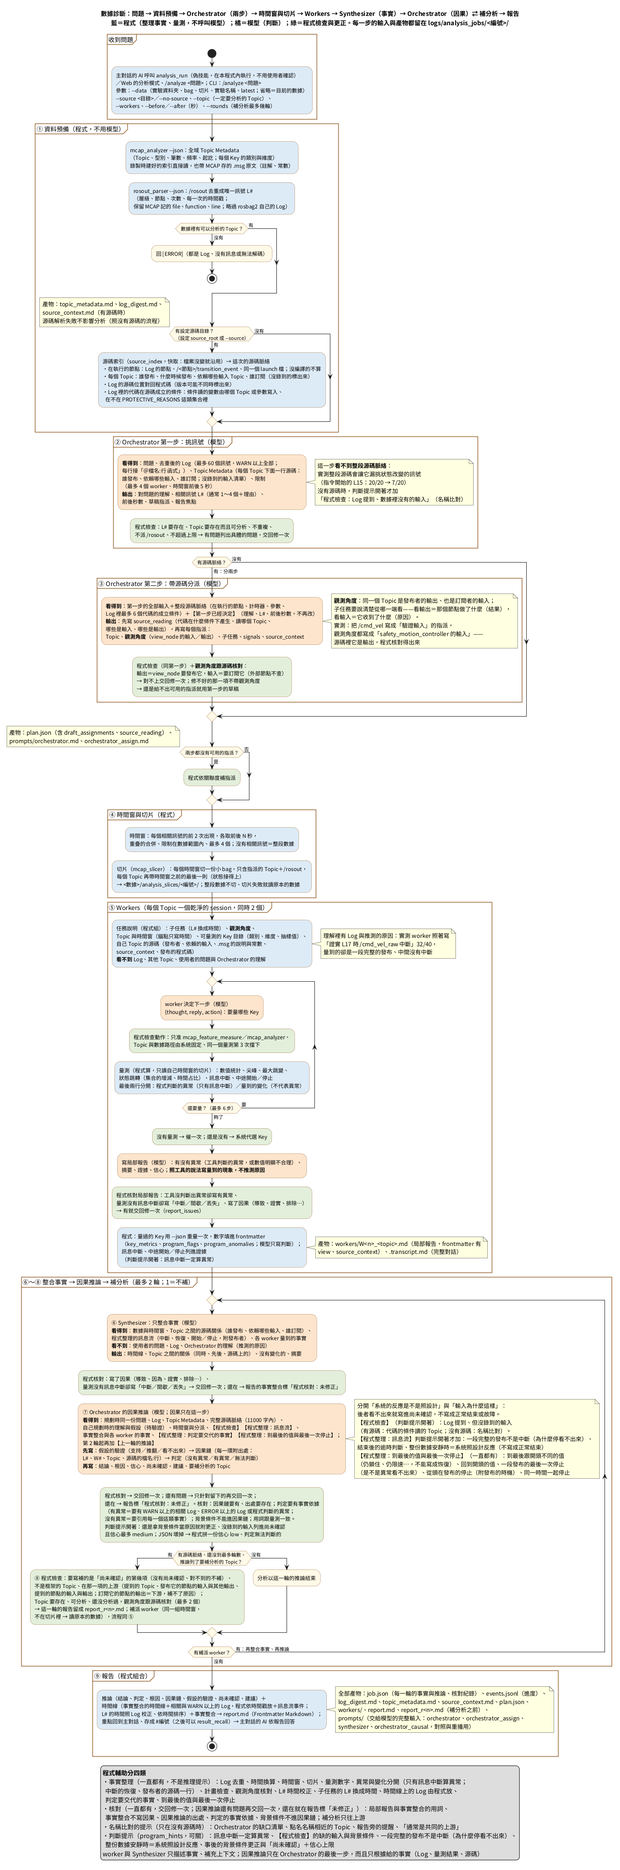
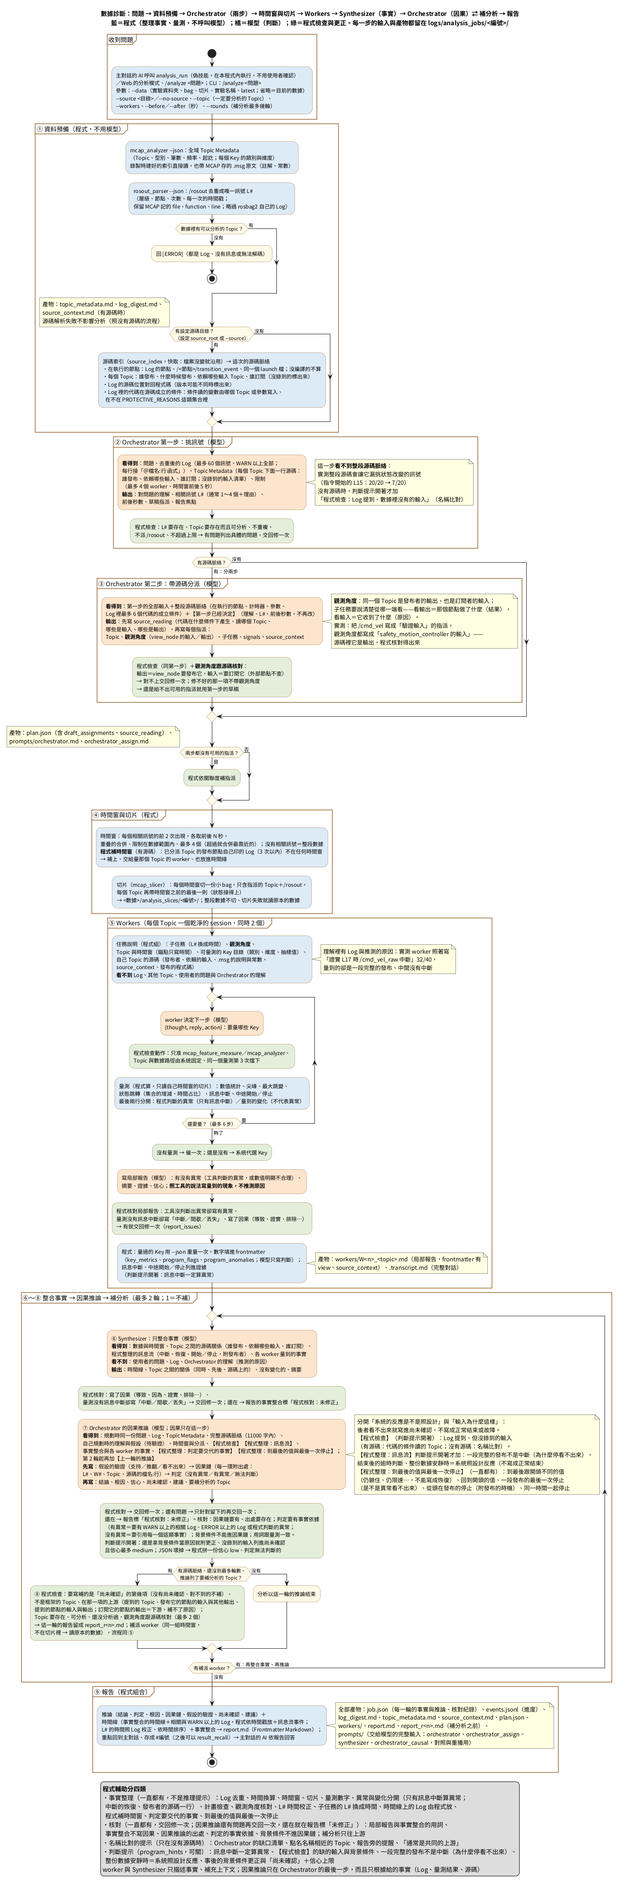
feat: Enhance turn guard logic and improve analysis flow
- Updated the regex in `turn_guard.py` to better identify claims made by the AI, ensuring it only recognizes claims that start a sentence or follow specific phrases.
- Modified documentation and self-test cases to reflect changes in claim recognition, particularly in how the AI describes system states versus making claims of actions taken.
- Improved the handling of time windows in analysis jobs, allowing for better coverage of relevant logs and signals.
- Adjusted the analysis regression logic to account for changes in how claims are processed and validated.
- Enhanced the web app's analysis flow to correctly parse command-line arguments, ensuring that questions are properly formatted and processed without misinterpretation.
- Updated self-test cases to validate the new behavior and ensure robustness in the analysis and claim handling processes.

Changed region(s): [[0.0, 0.0, 0.9201, 0.9998]]

diff --git a/evals/analysis_selftest.py b/evals/analysis_selftest.py
@@ -569,6 +569,19 @@ def main():
             assert "⚠" in ev[-1]["text"], "worker 上限 1～8"
             stats = flows.build_stats()
             assert stats["analysis"]["status"] == "done" and "analysis_mode" in stats
+            # 「/analyze --data X 問題」：選項照原樣交給 analysis_run（以前整段加引號當成問題，數據靜靜地用了目前的）
+            seen = []
+            real = agent.run_tool
+            agent.run_tool = lambda parsed, approved=False: (seen.append(parsed["action"]["args"]), "[ERROR] 測試：不執行")[1]
+            try:
+                flows.run_analysis_turn("--data exp_other LiDAR 出錯之後為什麼沒有恢復", [], data=DATA)
+                flows.run_analysis_turn("--topic /cmd_vel 為什麼歸零", [], data=DATA)
+                flows.run_analysis_turn("安全閘為什麼停下來", [], data=DATA)
+            finally:
+                agent.run_tool = real
+            assert seen[0] == "--data exp_other LiDAR 出錯之後為什麼沒有恢復", seen
+            assert seen[1].startswith("--data ") and seen[1].endswith(" --topic /cmd_vel 為什麼歸零"), seen
+            assert seen[2].endswith('"安全閘為什麼停下來"') or seen[2].endswith("安全閘為什麼停下來"), seen
 
         def t_mark_interrupted():
             d = os.path.join(agent.analysis_jobs_dir(), "20200101_000000")
@@ -904,6 +917,21 @@ def main():
             fake, d, job = run(plans=[GOOD_PLAN], assigns=[only], facts=[FACTS, FACTS], causal=[up, CAUSAL])
             assert [a["topic"] for a in job["reviews"][0]["followups"]] == ["/diagnostics_agg"], job["reviews"]
             assert "只能往上游補" in fake.seen["causal"][0][1]["content"]
+            # 補時間窗：規劃只挑 L30（+15.54s），已分派的 /cmd_vel 的發布者 safety_motion_controller 自己印的 L27～L29（+0.75s～+1.22s）、
+            # /system/safety_command 的發布者 system_health_monitor 的 L19、L20 不在時間窗 → 程式補上，交給量那個 Topic 的 worker
+            plan_l30 = dict(GOOD_PLAN, related_signals=[{"id": "L30", "why": "恢復 NORMAL"}])
+            fake, d, job = run(plans=[plan_l30], assigns=[good], causal=[CAUSAL])
+            cov = [c["id"] for c in job["plan"]["coverage"]]
+            assert cov == ["L19", "L20", "L27", "L28", "L29"], job["plan"].get("coverage")
+            t0 = round(float(job["time_range"][0]) * 1e9)
+            assert [r["id"] for r in job["plan"]["related"]] == ["L30"] and len(job["windows"]) == 2, job["windows"]
+            assert abs(job["windows"][0]["start_ns"] - t0) < 2e6 and job["windows"][0]["signals"][:2] == ["L19", "L20"], job["windows"]
+            sig = {a["topic"]: a["signals"] for a in job["plan"]["assignments"]}
+            assert {"L27", "L28", "L29"} <= set(sig["/cmd_vel"]) and "L19" not in sig["/cmd_vel"] and {"L19", "L20"} <= set(sig["/system/safety_command"]), sig
+            first = fake.seen["causal"][0][1]["content"]
+            assert "程式補的時間窗（已分派 Topic 的發布節點自己印的 Log，你規劃時沒有挑）" in first and "- L28 +0.75s：WARN safety_motion_controller" in first, first[-3000:]
+            md = open(os.path.join(d, "report.md"), encoding="utf-8").read()
+            assert "coverage_signals" in md and any(r["source"] == "L27" for r in job["report"]["timeline"]), "補的訊號也進時間線"
             # 補分析沒寫它補哪一項尚未確認、或沒有尚未確認：不補
             nofill = dict(CAUSAL, unknowns=[], followups=[dict(more["followups"][0], unknown=1)])
             fake, d, job = run(plans=[GOOD_PLAN], assigns=[good], causal=[nofill])
@@ -942,6 +970,7 @@ def main():
             from agent_core.analysis_job import _interrupt_words
             assert not _interrupt_words("停止發布的原因（例如上游節點關閉或通訊中斷）無法得知") and not _interrupt_words("沒有任何狀態跳轉、數值尖峰或訊息中斷")
             assert _interrupt_words("根因為 /cmd_vel_raw 指令源頭中斷") == ["中斷"]
+            assert not _interrupt_words("為什麼兩個 Topic 同時停止發布（是發布節點當掉、通訊中斷，還是收到特定指令停止）"), "列出可能的原因是假設"
             assert job["causal_checks"][0]["left"] == [] and job["report"]["root_cause"].startswith(CAUSAL["root_cause"]), job["causal_checks"]
             assert os.path.exists(os.path.join(job_dir, "prompts", "orchestrator_causal_2.md"))
             assert job["report"]["unresolved"] == [] and "程式核對：未修正" not in open(os.path.join(job_dir, "report.md"), encoding="utf-8").read()
@@ -994,6 +1023,12 @@ def main():
             assert "- W4 /cmd：從數據開頭就在發布，+15.00s 停止之後沒有恢復" in out and "同一時間（+15.00s）一起停止：/cmd、/agg" in out, out
             assert "某一項錯誤解除，不代表其他狀態也恢復" in out
             assert _end_states(dict(job, workers=[])) == ""
+            # 清單的值（被截斷、沒有右括號的到句尾）先拿掉再看背景條件；用詞核對引用的句子以出問題的字為中心
+            from agent_core.analysis_job import _unlisted, _excerpt
+            assert _unlisted("stop_reasons 從 `[NO_CMD_VEL_RAW]` 變更為 `[NO_CMD_VEL_RAW, SAFETY_COMMAND___`。另一句") == "stop_reasons 從 `` 變更為 `。另一句"
+            long = "為什麼 /diagnostics_agg 與 /system/safety_command 會在 +15.03s 同時中斷（發布它們的節點的狀態沒有錄到）"
+            ex = _excerpt(long, "中斷")
+            assert "中斷" in ex and len(ex) <= 62 and ex.startswith("…"), ex
 
         def t_causal_checks():
             # 因果推論的程式核對：因果鏈要有、出處要存在；判定要有事實依據（「有異常」要有異常的事實、「沒有異常」要引用每一個異常的事實）；

diff --git a/evals/main_selftest.py b/evals/main_selftest.py
@@ -137,6 +137,12 @@ def main():
                 fake, tools, system = turn("nav2 怎麼了", [say(reply)])
                 assert fake.calls == 1, (reply, fake.calls)
 
+        def t_claim_describes_state():
+            # 描述數據或系統的狀態（前面有主詞）不是宣稱做了：數據診斷的追問常寫「指令已停止發布」「系統已完成初始化」
+            reply = "根據報告，/cmd_vel_raw 在 +34.25s 已停止發布，安全閘到最後仍是 LIMITED；馬達的警告解除之前，系統已完成的限速不會自己解除。"
+            fake, tools, system = turn("那要怎麼讓安全閘恢復？", [say(reply)])
+            assert fake.calls == 1 and not any("沒有執行任何工具" in s for s in system), (fake.calls, system)
+
         def t_claim_after_tool_ok():
             fake, tools, system = turn("看一下 AGENT.md 的開頭", [step("scripts/cat_cmd.py", "AGENT.md"), say("已經讀完了，重點如下…")])
             assert fake.calls == 2 and not any("沒有執行任何工具" in s for s in system), (fake.calls, system)
@@ -248,6 +254,7 @@ def main():
                          ("卡住偵測：每個新回合重新計數", t_reset_each_turn),
                          ("沒有執行卻宣稱做完：提醒一次", t_claim),
                          ("沒有執行卻宣稱做完：每回合最多提醒一次", t_claim_only_once),
+                         ("描述數據或系統的狀態（前面有主詞的「已停止」「已完成」）不是宣稱做了", t_claim_describes_state),
                          ("條件句、疑問句、否定句不提醒", t_hedge_no_nudge),
                          ("這一回合真的執行過工具：不提醒", t_claim_after_tool_ok),
                          ("路徑找不到時列出相近的路徑（view_file／list_dir／change_dir）", t_path_suggestions),

diff --git a/agent_core/turn_guard.py b/agent_core/turn_guard.py
@@ -20,8 +20,10 @@ REPEAT_HINT_AT = 2
 # v4.1：第 2 次提醒、第 3 次加強提醒（要它換技能或參數）、第 4 次才停——E6 穩健性實驗裡「第 3 次就停」切斷了模型自己
 # 換做法的機會；不連續、但同樣的錯誤也提醒（以前沒提醒就直接停）。評測的對照組用 AGENT_TURN_GUARD_RULE=v4 換回舊規則。
 REPEAT_STOP_AT = int(os.environ.get("AGENT_REPEAT_STOP_AT", "4"))
+# 只認子句開頭（回覆開頭、標點之後）或「我／我們」後面的「已經…」：前面有主詞的「指令已停止發布」「系統已完成初始化」
+# 是在描述數據或系統的狀態，不是 AI 說自己做了（實測：回答數據診斷報告的追問被當成宣稱已停止，模型改口道歉、沒回答問題）
 _CLAIM_RE = re.compile(
-    r"(已經?|剛剛?)(?:幫你|為你|替你|順利|成功)?(?:地)?"
+    r"(?:^|(?<=[，。；！!、：:「（(\n])|(?<=我)|(?<=我們))(已經?|剛剛?)(?:幫你|為你|替你|順利|成功)?(?:地)?"
     r"(執行|完成|重新啟動|重啟|啟動|停止|關閉|建立|新增|刪除|移除|修改|更新|切換|設定|安裝|寫入|儲存|送出|發布|部署|下載|上傳|複製|搬移|清除|派送|派工)")
 _HEDGE_RE = re.compile(r"(沒有|尚未|還沒|未能|無法|不能|失敗|如果|若是|假如|要不要|是否|可以幫|需要我|請問|嗎[？?]|\?|？)")
 

diff --git a/web_app/flows.py b/web_app/flows.py
@@ -372,8 +372,15 @@ def run_analysis_turn(question, events, data=None):
     進主對話（auto 直接加入、manual／hybrid 等你決定），之後主模型依報告回答、可以接著追問。回傳是否在等使用者決策。"""
     from agent_core.protocol import quote_cli_arg
     import json
+    import re
     data = data or agent.analysis_data or "latest"
-    args = f"--data {quote_cli_arg(data)}" + (f" {quote_cli_arg(question)}" if question else "")
+    if question and re.search(r"(?:^|\s)--(?:data|dir|topic|source|no-source|workers|before|after|rounds)\b", question):
+        # 「/analyze --data exp_x 問題」：選項照原樣交給 analysis_run（它會解析，剩下的字是問題）。以前整段加引號當成問題，
+        # 選項沒被認出來、數據靜靜地用了目前的（latest）——實測問 LiDAR 的數據，分析的卻是最後錄的另一份
+        has_data = re.search(r"(?:^|\s)--(?:data|dir)\b", question)
+        args = ("" if has_data else f"--data {quote_cli_arg(data)} ") + question
+    else:
+        args = f"--data {quote_cli_arg(data)}" + (f" {quote_cli_arg(question)}" if question else "")
     action = {"command": "scripts/analysis_run_cmd.py", "args": args}
     reply = "交給數據診斷（Orchestrator → Workers → Synthesizer）。"
     agent.messages.append({"role": "assistant", "content": json.dumps(

diff --git a/evals/analysis_regression.py b/evals/analysis_regression.py
@@ -94,7 +94,9 @@ def score_job(job_id, case):
         res["timeline"] = not miss
         if miss:
             res["why"]["timeline"] = "缺：" + "、".join(miss)
-    relied = [c for c in case.get("not_cause") or [] if _relies_on(text, c)]
+    # 清單狀態的跳轉（「stop_reasons 從 [NO_CMD_VEL_RAW] 變成 [NO_CMD_VEL_RAW, SAFETY_COMMAND_TIMEOUT]」）不是拿它當原因（限制 62；
+    # 程式核對因果鏈時也是先拿掉 [...] 再看）
+    relied = [c for c in case.get("not_cause") or [] if _relies_on(re.sub(r"\[[^\]\n。；]*\]?", "", text), c)]   # 沒有右括號（被截斷）的到句尾
     if case.get("cause"):
         groups = case["cause"].get("all") or []
         lacking = [g for g in groups if not any(k.lower() in text.lower() for k in g)]

diff --git a/README.md b/README.md
@@ -65,7 +65,9 @@ harness 本身（技能系統的索引＋按需載入的規格＋既有腳本、
 - 產物：`plan.json`（含 `draft_assignments`、`source_reading`）、`prompts/orchestrator.md`、`prompts/orchestrator_assign.md`。
 
 **④ 時間窗與切片（程式）**
-- 時間窗：每個相關訊號的前 2 次出現，各取前後 N 秒，重疊的合併、限制在數據範圍內、最多 4 個；沒有相關訊號＝整段數據。
+- 時間窗：每個相關訊號的前 2 次出現，各取前後 N 秒，重疊的合併、限制在數據範圍內、最多 4 個（超過就合併最靠近的兩個）；沒有相關訊號＝整段數據。
+- 程式補時間窗（有源碼時）：已分派 Topic 的發布節點自己印的 Log（出現 3 次以內）不在任何時間窗，就補上、交給量那個 Topic 的 worker、
+  也放進時間線——實測規劃常只挑 WARN／ERROR，漏掉安全閘自己的 INFO 狀態變化（指令開始、結束），時間線就缺事件。
 - 切片：每個時間窗切一份小 bag（`<數據>/analysis_slices/<編號>/`），只含指派的 Topic＋/rosout，每個 Topic 再帶時間窗之前的最後一則；
   整段數據不切、切片失敗就讀原本的數據。
 
@@ -125,7 +127,7 @@ harness 本身（技能系統的索引＋按需載入的規格＋既有腳本、
 
 | 類別 | 內容 | 什麼時候有 |
 |---|---|---|
-| 事實整理 | Log 去重、時間換算、時間窗、切片、量測數字、異常與變化分開（只有訊息中斷算異常；中斷的恢復、發布者的源碼一行）、計畫檢查、觀測角度核對、L# 時間校正、子任務的 L# 換成時間、時間線上的 Log 由程式放、判定要交代的事實、到最後的值與最後一次停止 | 一直都有（不是推理提示） |
+| 事實整理 | Log 去重、時間換算、時間窗（含程式補的時間窗）、切片、量測數字、異常與變化分開（只有訊息中斷算異常；中斷的恢復、發布者的源碼一行）、計畫檢查、觀測角度核對、L# 時間校正、子任務的 L# 換成時間、時間線上的 Log 由程式放、判定要交代的事實、到最後的值與最後一次停止 | 一直都有（不是推理提示） |
 | 核對（交回修一次；因果推論還有問題再交回一次，還在就標「未修正」） | 局部報告與事實整合的用詞、事實整合不寫因果；因果推論的出處、判定的事實依據、背景條件不進因果鏈；補分析只往上游 | 一直都有（核對模型的輸出跟事實對不對得上） |
 | 名稱比對的提示 | Orchestrator 的缺口清單、點名名稱相近的 Topic、報告旁的提醒、「通常是共同的上游」 | 只在沒有源碼時 |
 | 判斷提示（`program_hints`） | 訊息中斷一定算異常；【程式檢查】的缺的輸入（有源碼時用代碼的條件讀哪個 Topic 判斷，不靠名稱比對）與背景條件；一段完整的發布不是中斷（為什麼開始、停止看不出來）、整份數據安靜時＝系統照設計反應（不寫成正常結束）；事後的背景條件更正、「尚未確認」與信心上限 | 開著（`/analysis_hints off` 可關） |
@@ -259,7 +261,8 @@ python3 Agent_Runner.py     # CLI（同樣有 /analyze 與 /analysis_* 指令）
 | 觀測角度＋源碼判斷的缺口＋只根據事實＋補推理鏈（2026-10-16，同上） | 指派寫明 Topic 是哪個節點的輸入或輸出，程式用源碼核對：/cmd_vel 被寫成「驗證輸入」的指派，觀測角度都對不上源碼、交回修正 → Orchestrator 與 worker 的 /cmd_vel 誤用都是 0/25；【程式檢查】的缺的輸入改用源碼判斷，**推薦設定不再有任何名稱比對**，人工複核 138/140（只給源碼 131/140，定性仍要判斷提示）。補推理鏈 70 次裡 65 次判斷「缺的是沒錄到的 Topic、不能補」就結束，一次約 1.5 秒；「只根據事實」的規則要另外說明「能完整解釋的就照事實定性」，不然模型不敢寫「正常的操作」。細節：〈設計筆記 2.21〉 |
 | 只根據事實（2026-10-16 第七輪，同上） | worker 只拿子任務（不給問題與 Orchestrator 的理解，L# 換成時間）、量測工具把異常（只有訊息中斷）與變化分開、局部報告與報告的用詞由程式核對：cmdvel 的「中斷」一路傳下去的錯整個消失（worker 標成異常 10/10 → 0/10、寫「中斷」7/10 → 0/10、報告寫「中斷」6/10 → 0/10）；**源碼＋判斷提示 140/140**、只給源碼 135/140（第六輪用同一個評分 134、126）。評分程式照人工複核的先例補齊，跟 1163 項人工判定全部一致，之後的回歸不必再人工複核；cmdvel 的定性改成只根據事實（照設計反應、不是故障），停止寫成「中斷」算錯誤說法。一次約 29～31 秒。改完才錄的 2 份驗證集（真的中斷又恢復、節點被 kill）36/45：做得到真的中斷與被 kill 的保護停止；時間線缺「恢復」、停止發布的 Topic 沒推到發布它的節點。細節：〈設計筆記 2.22〉 |
 | 因果推論只在 Orchestrator（2026-10-16 第八輪，同上） | worker 與 Synthesizer 只描述事實：Synthesizer 改成事實整合（時間線、Topic 之間的關係、沒有變化的；不給問題、Log、Orchestrator 的理解），因果推論只在 Orchestrator 的最後一步——假設的驗證 → 因果鏈（每一環附出處：L#、W#、源碼的檔名:行）→ 判定（沒有異常／有異常／無法判斷）→ 結論；要不要補分析也在這一步（要對到某一項尚未確認、補的 Topic 要跟它在源碼上有關係）。程式核對出處、判定的事實依據、背景條件、用詞，交回修一次。11 份數據（原本 7 份＋4 份驗證集，其中 overheat、lidar 在改之前錄）×5：**源碼＋判斷提示 230/235**（第七輪 226；原本 7 份 140/140）、只給源碼 229/235（第七輪 222）——都分不出顯著差異；越過事實的「指令正常結束」4/10 → 0/10。評分改成嚴格版、也讀因果鏈，跟 1243 項人工判定全部一致。一次約 36～37 秒（多 5～6 秒）。還沒解決：cmdgap 沒明說安全閘照設計或把最後一段指令的結束也說成異常、只給源碼時第一版常被交回（21/55，修完還留 3 次）。細節：〈設計筆記 2.23〉 |
-| 離線自我測試 | `analysis_selftest.py` 21/21、`main_selftest.py` 12/12、`v5_selftest.py` 8/8 |
+| 根因判斷之前的流程先穩定（2026-10-16 第九輪，同上） | A：程式整理到最後的值與最後一次停止（安全閘到數據結束仍鎖著、一段發布的最後一次停止是不是異常看不出來）；B：因果推論交回兩次，還在就在報告標「程式核對：未修正」；C：補分析只往上游。再逐段檢查根因判斷之前的流程：worker 560 份 0 失敗、程式產物與量測 5 次逐字相同；規劃常漏挑安全閘自己的 INFO 狀態變化 → **程式補時間窗**；修掉三個核對的誤判。14 份數據（新錄 3 份：aggregator 被 kill、相機 SMOOTH_PAUSE、馬達過熱到最後都沒解除）×5：**源碼＋判斷提示 296 → 308/310（p＝0.004）**、只給源碼 300 → 304/310；時間線缺事件 6 → 0；報告裡 3084 個時間全部對得上真實事件；補分析不再量下游。Web 的端到端測試抓到並修了兩個問題：`/analyze --data X` 的 --data 被當成問題（數據用了別份）、主對話把描述狀態的「已停止」當成宣稱做了。還沒解決的都是「為什麼」（把到最後仍限速歸因到後來的指令停止、沒說照設計），第十輪交給讀程式碼的根因 agent。細節：〈設計筆記 2.24〉 |
+| 離線自我測試 | `analysis_selftest.py` 21/21、`main_selftest.py` 13/13、`v5_selftest.py` 8/8 |
 | toolkit 相容 | toolkit 的 `mcap_analyzer.py` 讀得懂 mcap_slicer 產生的切片（包括巢狀的 Key）；切片的 `metadata.yaml` 是 rosbag2 的格式，`ros2 bag info／play <切片資料夾>` 也讀得到 |
 
 **已知的限制**：e4b 的 Synthesizer 會把「輸出 Topic 是 0」當成「輸入缺失」的證據（Log 的 NO_CMD_VEL_RAW 指的是 /cmd_vel_raw，它不在這份數據裡）——程式檢查會把這種情況列進「尚未確認」並把信心壓到 medium，但推理文字本身仍可能這樣寫；
@@ -288,7 +291,7 @@ worker 的平行度受 Ollama 的 slot 限制；Topic Metadata 的 Key 分類是
 ## 主對話的程式把關（2026-10-08，CLI、Web、評測共用）
 
 - **卡住偵測**：同一個回合裡同樣的動作（技能＋參數）得到同樣的結果——第二次在工具回傳後面附「不要再重複、換個做法」，第三次加強提醒，第四次（或同一個錯誤第四次）停下這一回合、顯示 ⛔ 交回給你。
-- **沒有執行卻宣稱做完**：這一回合一個工具都沒有執行，回覆卻說「已經重新啟動了／已建立…」，提醒 AI 一次（條件句、疑問句、否定句不算）。
+- **沒有執行卻宣稱做完**：這一回合一個工具都沒有執行，回覆卻說「已經重新啟動了／已建立…」，提醒 AI 一次（條件句、疑問句、否定句不算；只認子句開頭或「我／我們」後面的說法——「指令已停止發布」這種有主詞的句子是在描述數據或系統的狀態）。
 - **路徑找不到時列出相近的路徑**：`view_file`、`list_dir`、`change_dir` 找不到時，列出大小寫或拼字最接近、或同名在別的目錄的路徑。
 - **技能用錯時直接說該用哪個**：`docker_runcmd` 被拿來跑 `docker start／restart` 時，直接說明要用 `host_runcmd` 在主機上執行。
 

diff --git a/doc/架構說明.md b/doc/架構說明.md
@@ -77,7 +77,7 @@
    **卡住偵測**（`turn_guard.py`，`run_tool` 的外層 `note_tool_result`）：同一個回合裡同樣的動作得到同樣的結果，第二次在回傳後面附「不要再重複、換個做法」，第三次加強提醒（換技能或參數），第四次（或同一個錯誤第四次；`AGENT_REPEAT_STOP_AT` 可調，評測的對照組用 `AGENT_TURN_GUARD_RULE=v4` 換回「第三次就停」）設 `agent.stuck`，回合迴圈加入這次結果後就停下來、推 ⛔ 通知交回使用者（存檔是原本的回傳，不含提醒）。
 7. **模式決策**：auto 直接加入並續推；hybrid 問 y／n，n 改加「已捨棄」通知，兩者都續推；manual 按 y 加入並續推，n／stop 結束回合。
 8. **決定進主對話的內容**（只有「加入」時才算）：`_content_for_context()` 依上下文模式決定給原文、摘要、原文頭尾或只給成功／失敗（見第 3 節）；`tool_result_message()` 包上 `[tool result]` 與「系統回傳、不是使用者提供」框架句，以 user 角色加入 `messages`，然後回到步驟 2。
-9. **模型停下來（`action` 為 null）**：先 `claim_without_action()`——這一回合一個工具都沒執行、回覆卻說「已經重新啟動／建立／刪除…」（條件句、疑問句、否定句不算），送一次 `[harness]` 提醒（要做就執行、沒做就照實說）、回到步驟 2，每回合最多一次；再 `plan_after_reply()`——計畫剩下的都是不需技能的步驟就算完成；`/plan_exec_guard on` 且還有步驟沒做，就自動送 `[PLAN_CONTINUE]` 提醒下一步、回到步驟 2（連續失敗 3 次退出計畫）。
+9. **模型停下來（`action` 為 null）**：先 `claim_without_action()`——這一回合一個工具都沒執行、回覆卻說「已經重新啟動／建立／刪除…」（條件句、疑問句、否定句不算；只認子句開頭或「我／我們」後面的說法），送一次 `[harness]` 提醒（要做就執行、沒做就照實說）、回到步驟 2，每回合最多一次；再 `plan_after_reply()`——計畫剩下的都是不需技能的步驟就算完成；`/plan_exec_guard on` 且還有步驟沒做，就自動送 `[PLAN_CONTINUE]` 提醒下一步、回到步驟 2（連續失敗 3 次退出計畫）。
 10. **回合結束**：`after_turn_compression()` 檢查軟水位：claude_code 模式先清除舊的工具回傳，清完還超過、而且可壓的內容夠多，才把舊訊息融合成滾動摘要（第 3.6 節）。
 
 ---
@@ -467,7 +467,9 @@ Ollama 只重用跟上一次請求相同的開頭，從第一個不同的 token 
      （第一步的指派留在 plan 的 draft_assignments，prompts/orchestrator_assign.md 是第二步的輸入）
    → 還是沒有可用的指派：_auto_assignments（依跟相關 Log 共用的詞、可量測的 Key、筆數排 Topic）
    → _make_windows：相關訊號的時間戳（每個訊號最多前 ANALYSIS_SIGNAL_OCCURRENCES 次）前後各 before／after 秒，重疊的合併、
-     限制在數據範圍內、最多 ANALYSIS_MAX_WINDOWS 個；沒有相關訊號（或 Log 的時間不在範圍內）＝整段數據一個時間窗
+     限制在數據範圍內、最多 ANALYSIS_MAX_WINDOWS 個（超過就合併最靠近的兩個）；沒有相關訊號（或 Log 的時間不在範圍內）＝整段數據一個時間窗
+   → _coverage_signals（有源碼）：已分派 Topic 的發布節點自己印的 Log（出現 ≤3 次）不在任何時間窗 → plan["coverage"]、
+     重算時間窗、加進那些 Topic 的 assignment signals（worker 的時間窗）、_log_rows 也放進時間線
 1.5 _analysis_slice（程式，動態時間切片）：每個時間窗用 mcap_slicer --window --topics（指派的 Topic＋/rosout）--with-state
    切一片到 <數據>/analysis_slices/<job 編號>/，時間窗記下切片路徑；整段數據不切、ANALYSIS_SLICE 關掉不切、切片失敗讀原本的數據
 2. _analysis_run_workers：每個指派一個 AnalysisWorker（ThreadPoolExecutor，同時 ANALYSIS_PARALLEL_WORKERS 個）；
@@ -582,9 +584,9 @@ Ollama 只重用跟上一次請求相同的開頭，從第一個不同的 token 
 | 想做的事 | 看哪裡 |
 |---|---|
 | 改三個角色的行為規則 | `analysis_agents/orchestrator.md`、`worker.md`、`synthesizer.md` |
-| 改計畫的檢查、補指派、時間窗 | `analysis_job.py` 的 `_clean_plan`、`_auto_assignments`、`_make_windows` |
+| 改計畫的檢查、補指派、時間窗 | `analysis_job.py` 的 `_clean_plan`、`_auto_assignments`、`_make_windows`、`_coverage_signals` |
 | 改交給 Orchestrator／Synthesizer 的內容 | `_digest_text`、`_topics_text`、`_analysis_orchestrate`、`_facts_user`、`_causal_user`、`_worker_fact_block`、`_relations_text` |
-| 改報告的程式檢查（數據範圍、信心上限、時間線排序與校正、背景條件、訊息流） | `_coverage_gaps`（`_REASON_RE`）、`_similar_topics`／`_similar_note`／`_proxy_reminders`／`_gap_text_for_plan`、`_background_codes`、`_relies_on`（`_DISMISS`、`_dismissed`、`_NOT_THE_CHANGE`）、`_wording_issues`、`_worker_report_issues`、`_facts_issues`、`_end_states`、`_causal_issues`（`_ref_parts`、`_abnormal_facts`）、`_flow_events`／`_flow_block`／`_segment_notes`／`_ensure_flow_events`、`_fix_signal_times`、`_log_rows`、`_analysis_causal` 裡判斷提示的那段、`_assemble_report`、`_timeline_key` |
+| 改報告的程式檢查（數據範圍、信心上限、時間線排序與校正、背景條件、訊息流） | `_coverage_gaps`（`_REASON_RE`）、`_similar_topics`／`_similar_note`／`_proxy_reminders`／`_gap_text_for_plan`、`_background_codes`、`_relies_on`（`_DISMISS`、`_dismissed`、`_NOT_THE_CHANGE`）、`_wording_issues`（`_ALTERNATIVES`、`_excerpt`）、`_worker_report_issues`、`_facts_issues`、`_end_states`、`_unlisted`、`_causal_issues`（`_ref_parts`、`_abnormal_facts`）、`_flow_events`／`_flow_block`／`_segment_notes`／`_ensure_flow_events`、`_fix_signal_times`、`_log_rows`、`_analysis_causal` 裡判斷提示的那段、`_assemble_report`、`_timeline_key` |
 | 改動態時間切片（切哪些 Topic、放哪裡、要不要切） | `_analysis_slice`、`ANALYSIS_SLICE`；切片的內容在 `mcap_slicer_cmd._write_slice`（`--topics`、`--with-state`） |
 | 跑回歸測試、改評分標準 | `evals/analysis_regression.py`、`evals/analysis_regression_cases.json`（ground truth 在 `test_data/ground_truth/`） |
 | 改 worker 可以做什麼、怎麼檢查 | `AnalysisWorker._normalize`、`ANALYSIS_WORKER_SCRIPTS`、`worker.md` |
